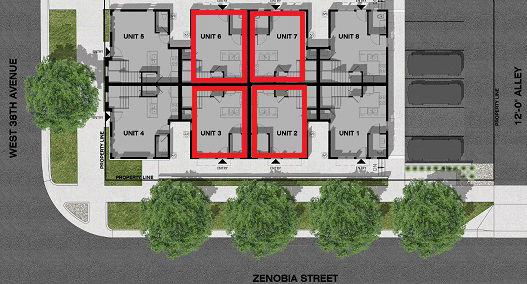
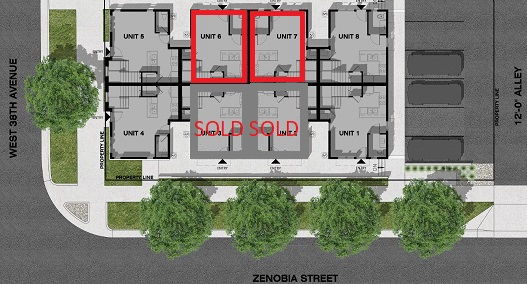
put units 2 and 3 as under K

Changed region(s): [[0.334, 0.0282, 0.6072, 0.5634]]

diff --git a/zen8/units2367.html b/zen8/units2367.html
@@ -150,7 +150,7 @@
                     <div class="media-content">
                         <div class="mbr-section-text">
                             <p class="mbr-text mb-0 mbr-fonts-style display-7">
-                               <strong>Unit 2</strong><br>Available, parking spot #2
+                               <strong>Unit 2</strong><br>UNDER CONTRACT, parking spot #2
 			       <br>Great curb appeal on Zenobia Street
 <br>Indoor = 1063
 <br>Roof Deck = 176
